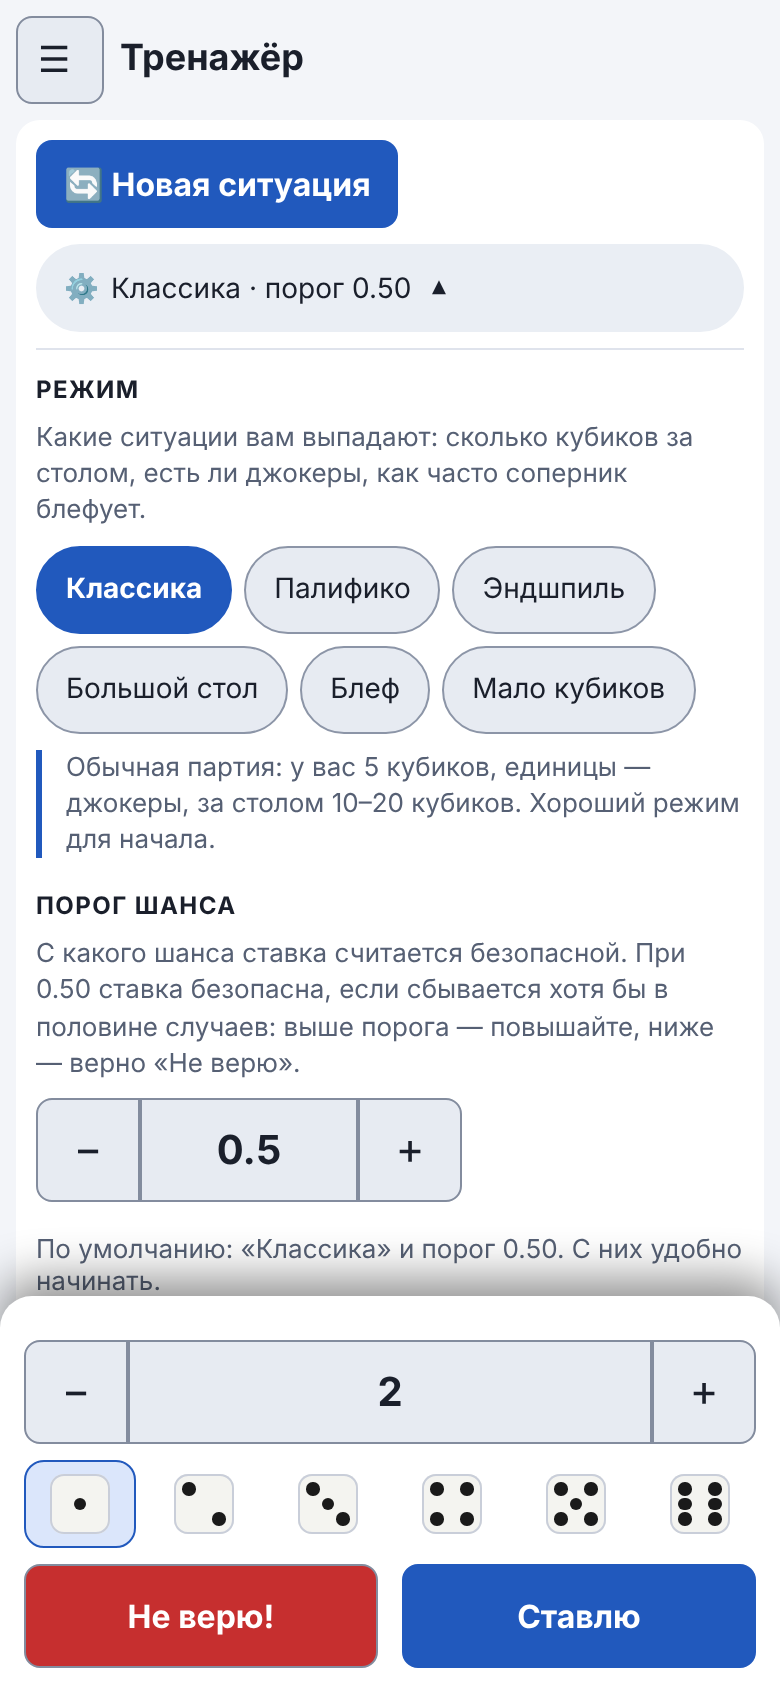
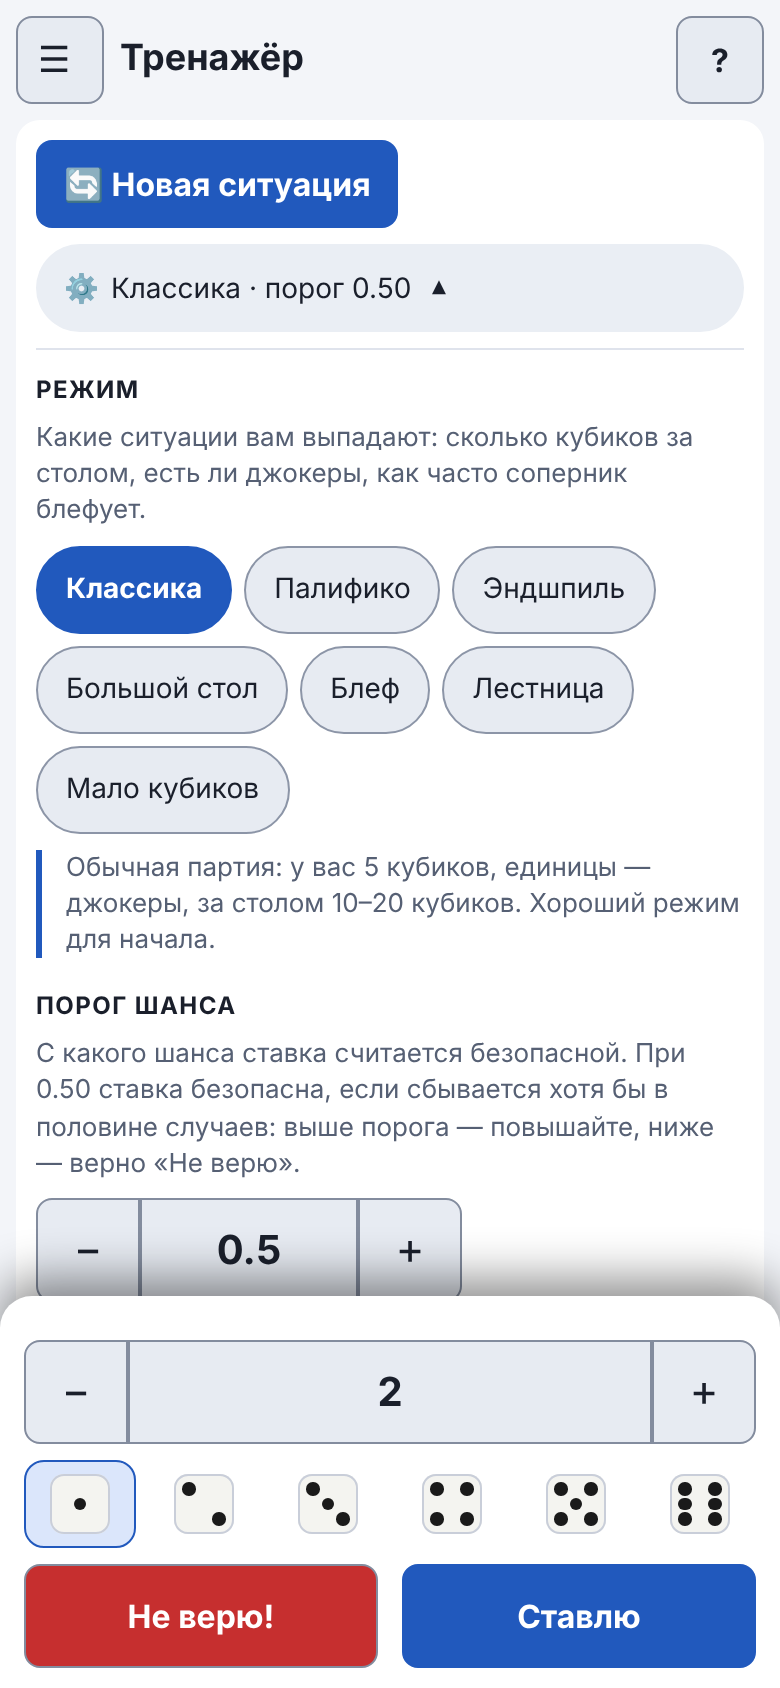
Версия 2.13.0: волна 2 плана работ, обновлённые скриншоты руководства

diff --git a/CHANGELOG.md b/CHANGELOG.md
@@ -2,6 +2,21 @@
 
 Формат: [Keep a Changelog](https://keepachangelog.com/ru/1.1.0/), версии: [семантическое версионирование](https://semver.org/lang/ru/). В описаниях только то, что видно пользователю или влияет на работу; технические подробности смотрите в истории коммитов.
 
+## [2.13.0] — 2026-11-05
+
+### Добавлено
+- **Пресет «Первая учебная партия».** Кнопка на экране «Новая партия» одним нажатием выставляет настройки для знакомства: один бот «Осторожный», режим «Новичок», темп «Медленно», стили ботов показаны, Calza и Палифико выключены. Партию после этого начинаете вы сами.
+- **Карточка «Впервые здесь?».** Наверху Калькулятора на чистом профиле: правила за минуту, первая учебная партия (с пресетом) и Тренажёр. Исчезает после первой партии или решения в тренажёре, раньше её можно скрыть.
+- **Кнопка «?» в каждом разделе.** Открывает нужную страницу руководства в новой вкладке: в шапке приложения на широком экране, в шапке раздела на телефоне, а в партии на телефоне пунктом «Справка по разделу» в меню ☰.
+- **Ступени в «Упражнениях».** Первая задача идёт с раскрытой памяткой и примером, вторая и третья в «Оценке в уме» с уже подставленным первым числом, дальше всё самостоятельно.
+- **Блок «Что дальше» в «Статистике».** Одна рекомендация с кнопкой: решить очередь повторов, потренировать самую слабую тему, доиграть до процента побед или попробовать «Читай вскрытие». Новых данных блок не собирает.
+
+### Изменено
+- Выбор «Войти через Яндекс / Играть как гость» больше не открывается поверх чистого приложения: он появляется после первого результата (партии или решённой задачи). Esc откладывает вопрос до следующего запуска.
+- В Тренажёре у повтора видна причина и прогресс: «1 из 2 успешных повторов», а после ответа сказано, засчитан ли повтор.
+- В меню ☰ на телефоне в ландшафте пункты разложены в две колонки, чтобы меню помещалось на экран.
+- Руководство и все скриншоты обновлены под новые элементы.
+
 ## [2.12.0] — 2026-11-03
 
 ### Добавлено

diff --git a/docs/dev/roadmap.md b/docs/dev/roadmap.md
@@ -4,7 +4,7 @@
 
 **Как вести файл.** Пункт выполнен, когда его патч применён и проверен: в строке меняется `[ ]` на `[x]` и в поле «Патч» ставится номер. Отметку делает тот же патч, который закрывает пункт. Тест `tests/roadmap.test.js` следит, чтобы ID не повторялись, у выполненных был номер патча, а счётчик ниже совпадал со списком.
 
-Выполнено: 18 из 25
+Выполнено: 19 из 25
 
 Формат строки: `- [ ] **ID** · размер (S, M, L) · название (замечания из отчёта) — критерий готовности. Патч: номер или —`.
 
@@ -45,7 +45,7 @@
 ## Релизы
 
 - [x] **R-01** · S · Релиз 2.12.0 после волны 1 — версия, CHANGELOG, текст релиза, команды тега. Патч: 137
-- [ ] **R-02** · S · Релиз после волны 2 — версия, CHANGELOG, текст релиза, команды тега. Патч: —
+- [x] **R-02** · S · Релиз после волны 2 — версия, CHANGELOG, текст релиза, команды тега. Патч: 145
 - [ ] **R-03** · S · Релиз после волны 3 — версия, CHANGELOG, текст релиза, команды тега. Патч: —
 
 ## Отложено и почему
